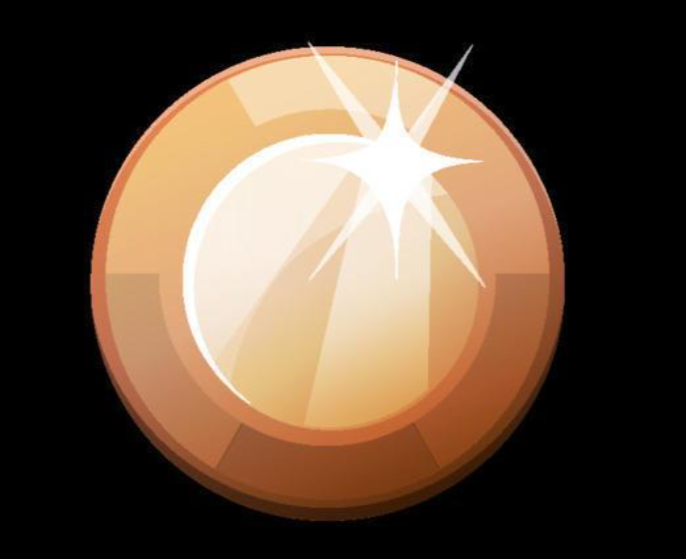
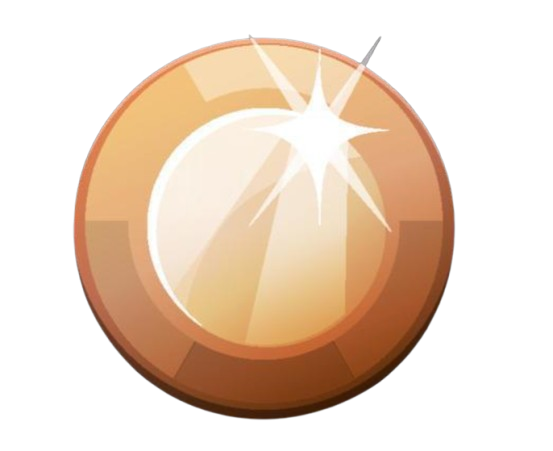
Abzeichen Bilde hinzugefügt, Profil und Aktivität dazu angepasst

diff --git a/flutter_application_1/lib/screens/archievement_screen.dart b/flutter_application_1/lib/screens/archievement_screen.dart
@@ -1,6 +1,7 @@
 import 'package:flutter/material.dart';
 import 'package:cloud_firestore/cloud_firestore.dart';
 import 'package:firebase_auth/firebase_auth.dart';
+import 'package:percent_indicator/percent_indicator.dart';
 
 class Achievement {
   final String name;
@@ -68,12 +69,17 @@ class _AchievementScreenState extends State<AchievementScreen> {
         .collection('activities')
         .get();
     
-    int totalLearningHours = 0;
+    int totalLearningMinutes = 0;
     int totalFitnessSessions = 0;
     int totalRuns = 0;
     int learningSessions = 0;
     int fitnessSessions = 0;
     int runningSessions = 0;
+    int totalFreetime = 0;
+    int freetimeSessions = 0;
+    int totalMusicMinutes = 0;
+    int musicSessions = 0;
+
 
     for (var doc in activitiesSnapshot.docs) {
       final data = doc.data();
@@ -81,25 +87,35 @@ class _AchievementScreenState extends State<AchievementScreen> {
       final int duration = data['duration'] ?? 0;
 
       if (category == 'Lernen') {
-        totalLearningHours += duration;
+        totalLearningMinutes += duration;
         learningSessions += 1;
-      } else if (category == 'Fitness') {
+      } else if (category == 'Sport') {
         totalFitnessSessions += duration;
         fitnessSessions += 1;
       } else if (category == 'Laufen') {
         totalRuns += duration;
         runningSessions += 1;
+      } else if (category == 'Freizeit') {
+        totalFreetime += duration;
+        freetimeSessions += 1;
+      } else if (category == 'Musik') {
+        totalMusicMinutes += duration;
+        musicSessions += 1;
       }
     }
     
     setState(() {
       achievements = [
-        _createAchievement('Gelernte Stunden', totalLearningHours, 100, Icons.school),
-        _createAchievement('Lern-Sessions', learningSessions, 50, Icons.menu_book),
-        _createAchievement('Fitness Freak', totalFitnessSessions, 10, Icons.fitness_center),
+        _createAchievement('Gelernte Minuten', totalLearningMinutes, 600, Icons.school),
+        _createAchievement('Lern-Sessions', learningSessions, 20, Icons.menu_book),
+        _createAchievement('Fitness Freak', totalFitnessSessions, 600, Icons.fitness_center),
         _createAchievement('Workouts absolviert', fitnessSessions, 20, Icons.sports_gymnastics),
-        _createAchievement('Lauflegende', totalRuns, 50, Icons.directions_run),
-        _createAchievement('Läufe abgeschlossen', runningSessions, 30, Icons.run_circle),
+        _createAchievement('Lauflegende', totalRuns, 600, Icons.directions_run),
+        _createAchievement('Läufe abgeschlossen', runningSessions, 20, Icons.run_circle),
+        _createAchievement('Freiheit', totalFreetime, 600, Icons.event_available),
+        _createAchievement('Am Chillen', freetimeSessions, 20, Icons.timelapse),
+        _createAchievement('Neuer Mozart', totalMusicMinutes, 600, Icons.piano),
+        _createAchievement('Musik gespielt', musicSessions, 20, Icons.library_music),
       ];
     });
 
@@ -111,16 +127,22 @@ class _AchievementScreenState extends State<AchievementScreen> {
     String badge = 'Loser';
     int goal = baseGoal;
 
-    if (current >= baseGoal * 4) {
+    if (current >= baseGoal * 20) {
+      badge = 'Diamant';
+      goal = baseGoal * 30;
+    } else if (current >= baseGoal * 12) {
+      badge = 'Platin';
+      goal = baseGoal * 20;
+    } else if (current >= baseGoal * 6) {
       badge = 'Gold';
-      goal = baseGoal * 8;
+      goal = baseGoal * 12;
     } else if (current >= baseGoal * 2) {
       badge = 'Silber';
-      goal = baseGoal * 4;
+      goal = baseGoal * 6;
     } else if (current >= baseGoal) {
       badge = 'Bronze';
       goal = baseGoal * 2;
-    }
+    } 
     
     return Achievement(name: name, current: current, goal: goal, badge: badge,  icon: icon,);
   }
@@ -163,13 +185,23 @@ class _AchievementScreenState extends State<AchievementScreen> {
                               children: [
                                 Text(achievement.name, style: const TextStyle(fontWeight: FontWeight.bold)),
                                 Text("${achievement.current}/${achievement.goal} ${achievement.badge.isNotEmpty ? '- ${achievement.badge} Abzeichen' : ''}", style: TextStyle(color: Colors.grey[700])),
-                                LinearProgressIndicator(
-                                  value: achievement.progress,
-                                  backgroundColor: Colors.grey[300],
-                                  color: Colors.deepPurple,
+                                CircularPercentIndicator(
+                                  radius: 30.0,
+                                  lineWidth: 6.0,
+                                  percent: achievement.progress,
+                                  center: Text("${(achievement.progress * 100).toInt()}%"),
+                                  progressColor: Colors.deepPurple,
+                                  backgroundColor: Colors.grey[300]!,
+                                  circularStrokeCap: CircularStrokeCap.round,
                                 ),
                               ],
                             ),
+                          ),
+                          const SizedBox(width: 12),
+                          Image.asset(
+                            '${achievement.badge}.png',
+                            width: 80,
+                            height: 80,
                           ),
                         ],
                       ),

diff --git a/flutter_application_1/lib/screens/profile_screen.dart b/flutter_application_1/lib/screens/profile_screen.dart
@@ -271,37 +271,57 @@ Widget build(BuildContext context) {
                 SizedBox(height: 20),
                 // Rewards-Bereich
                 Container(
-                  decoration: BoxDecoration(
-                    borderRadius: BorderRadius.circular(10),
-                    border: Border.all(color: Colors.grey),
-                  ),
-                  padding: const EdgeInsets.all(16.0),
-                  child: Column(
-                    crossAxisAlignment: CrossAxisAlignment.start,
-                    children: [
-                      Text("Rewards", style: TextStyle(fontSize: 18, fontWeight: FontWeight.bold)),
-                      SizedBox(height: 10),
-                      StreamBuilder(
-                        stream: _firestore.collection('rewards').where('userId', isEqualTo: _auth.currentUser?.uid).snapshots(),
-                        builder: (context, snapshot) {
-                          if (snapshot.hasData) {
-                            if (snapshot.data!.docs.isEmpty) {
-                              return Center(child: Text("No rewards found"));
-                            }
-                            return ListView.builder(
-                              shrinkWrap: true,
-                              itemCount: snapshot.data!.docs.length,
-                              itemBuilder: (context, index) {
-                                final reward = snapshot.data!.docs[index];
-                                return ListTile(
-                                  title: Text(reward.get('name')),
-                                  subtitle: Text(reward.get('description')),
-                                  trailing: Text("${reward.get('points')} Points"),
-                                );
-                              },
-                            );
-                          } else {
-                            return Center(child: CircularProgressIndicator());
+              decoration: BoxDecoration(
+                borderRadius: BorderRadius.circular(10),
+                border: Border.all(color: Colors.grey),
+              ),
+              padding: const EdgeInsets.all(16.0),
+              child: Column(
+                crossAxisAlignment: CrossAxisAlignment.start,
+                children: [
+                  Text("Rewards", style: TextStyle(fontSize: 18, fontWeight: FontWeight.bold)),
+                  SizedBox(height: 10),
+                 StreamBuilder(
+                    stream: _firestore.collection('users').doc(_auth.currentUser?.uid).snapshots(),
+                    builder: (context, snapshot) {
+                      if (snapshot.hasData) {
+                        final userData = snapshot.data!.data();
+                        if (userData != null && userData.containsKey('achievements')) {
+                          final achievements = userData['achievements'] as List<dynamic>;
+                          if (achievements.isEmpty) {
+                            return Center(child: Text("No rewards found"));
+                          }
+                          return ListView.builder(
+                            shrinkWrap: true,
+                            itemCount: achievements.length,
+                            itemBuilder: (context, index) {
+                              final achievement = achievements[index] as Map<String, dynamic>;
+                  return Container(
+                    margin: const EdgeInsets.symmetric(vertical: 8.0),
+                    padding: const EdgeInsets.all(12.0),
+                    decoration: BoxDecoration(
+                      border: Border.all(color: Colors.grey),
+                      borderRadius: BorderRadius.circular(8.0),
+                    ),
+                    child: Row(
+                      mainAxisAlignment: MainAxisAlignment.spaceBetween,
+                      children: [
+                        Text(achievement['name'], style: TextStyle(fontSize: 16, fontWeight: FontWeight.bold)),
+                        Image.asset(
+                          '${achievement['badge'].toLowerCase()}.png',
+                          width: 50,
+                          height: 50,
+                        ),
+                      ],
+                    ),
+                  );
+                },
+              );
+            } else {
+                          return Center(child: Text("No rewards found"));
+                        }
+                      } else {
+                        return Center(child: CircularProgressIndicator());
                           }
                         },
                       ),

diff --git a/flutter_application_1/lib/screens/activity_screen.dart b/flutter_application_1/lib/screens/activity_screen.dart
@@ -254,7 +254,7 @@ Future<void> _ensureFolderExists(String userId) async {
       decoration: const InputDecoration(labelText: "Kategorie*"),
       validator: (val) => val == null || val.isEmpty ? "Bitte Kategorie auswählen" : null,
       items:
-          ['Sport', 'Lernen', 'Kochen', 'Musik'].map((cat) => DropdownMenuItem(value: cat, child: Text(cat))).toList(),
+          ['Sport', 'Lernen', 'Laufen', 'Musik', 'Freizeit'].map((cat) => DropdownMenuItem(value: cat, child: Text(cat))).toList(),
       onChanged: (val) => category = val!,
     ),
     const SizedBox(height: 10),
@@ -410,9 +410,9 @@ Widget build(BuildContext context) {
           const PopupMenuDivider(),
           const PopupMenuItem(value: 'category_Sport', child: Text("Kategorie: Sport")),
           const PopupMenuItem(value: 'category_Lernen', child: Text("Kategorie: Lernen")),
-          const PopupMenuItem(value: 'category_Kochen', child: Text("Kategorie: Kochen")),
+          const PopupMenuItem(value: 'category_Laufen', child: Text("Kategorie: Laufen")),
           const PopupMenuItem(value: 'category_Musik', child: Text("Kategorie: Musik")),
-          const PopupMenuItem(value: 'category_Laufen', child: Text("Kategorie: Musik")),
+          const PopupMenuItem(value: 'category_Freizeit', child: Text("Kategorie: Freizeit")),
           const PopupMenuItem(value: 'category_', child: Text("Alle Kategorien")), // Zurücksetzen
         ],
       ),
